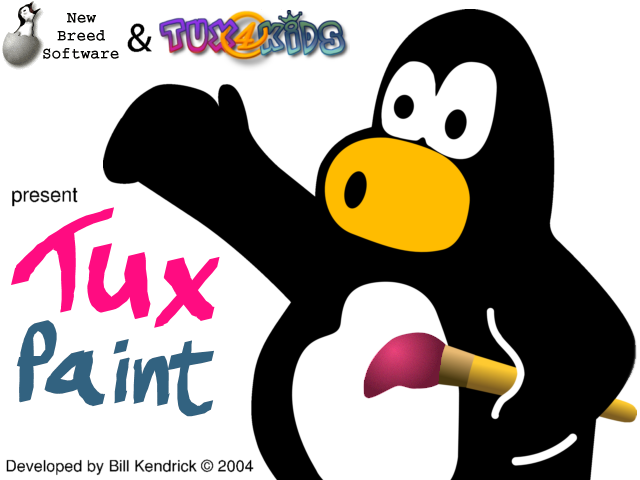
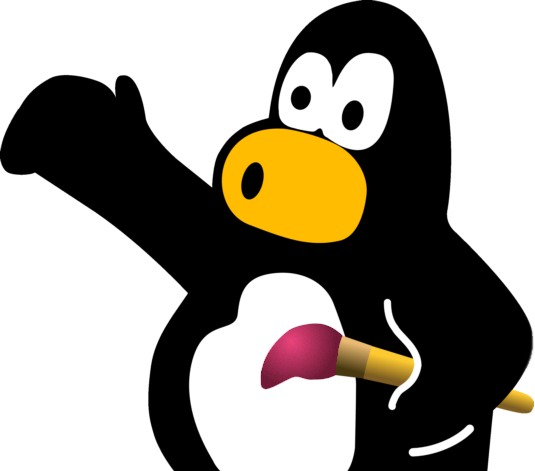
Splash screen scales to different window sizes.

diff --git a/src/tuxpaint.c b/src/tuxpaint.c
@@ -22,12 +22,12 @@
   Foundation, Inc., 59 Temple Place, Suite 330, Boston, MA  02111-1307  USA
   (See COPYING.txt)
   
-  June 14, 2002 - October 5, 2005
+  June 14, 2002 - October 6, 2005
 */
 
 
 #define VER_VERSION     "0.9.15"
-#define VER_DATE        "2005-10-05"
+#define VER_DATE        "2005-10-06"
 
 
 /* Color depth for Tux Paint to run in, and store canvases in: */
@@ -1490,7 +1490,8 @@ static SDL_Surface * undo_bufs[NUM_UNDO_BUFS];
 static int undo_starters[NUM_UNDO_BUFS];
 static int cur_undo, oldest_undo, newest_undo;
 
-static SDL_Surface * img_title, * img_progress;
+static SDL_Surface * img_title, * img_title_credits, * img_title_tuxpaint;
+static SDL_Surface * img_progress;
 static SDL_Surface * img_btn_up, * img_btn_down, * img_btn_off;
 static SDL_Surface * img_dead40x40;
 static SDL_Surface * img_black, * img_grey;
@@ -2582,9 +2583,12 @@ int main(int argc, char * argv[])
   src.w = img_title->w;
   src.x = 0;
   src.y = img_title->h - img_progress->h;
-  dest.x = (WINDOW_WIDTH - img_title->w) / 2;
+  dest.x = ((WINDOW_WIDTH - img_title->w - (img_title_tuxpaint->w / 2)) / 2) + (img_title_tuxpaint->w / 2);
   SDL_BlitSurface(img_title, &src, screen, &dest);
+
   SDL_FreeSurface(img_title);
+  SDL_FreeSurface(img_title_credits);
+  SDL_FreeSurface(img_title_tuxpaint);
 
   dest.x = 0;
   dest.w = WINDOW_WIDTH;  // SDL mangles this! So, do repairs.
@@ -2592,7 +2596,7 @@ int main(int argc, char * argv[])
 
   do_setcursor(cursor_arrow);
   playsound(0, SND_HARP, 1);
-  do_wait(50);  // about 5 seconds
+  do_wait(500);  // about 5 seconds
 
 
   /* Set defaults! */
@@ -8221,14 +8225,26 @@ static void setup(int argc, char * argv[])
   ////////// quickly: title image, version, progress bar, and watch cursor
 
   img_title = loadimage(DATA_PREFIX "images/title.png");
+  img_title_tuxpaint = loadimage(DATA_PREFIX "images/title-tuxpaint.png");
+  img_title_credits = loadimage(DATA_PREFIX "images/title-credits.png");
   img_progress = loadimage(DATA_PREFIX "images/ui/progress.png");
 
   SDL_FillRect(screen, NULL, SDL_MapRGB(screen->format, 255, 255, 255));
 
-  dest.x = (WINDOW_WIDTH - img_title->w) / 2;
+  dest.x = ((WINDOW_WIDTH - img_title->w - (img_title_tuxpaint->w / 2)) / 2) + (img_title_tuxpaint->w / 2);
   dest.y = (WINDOW_HEIGHT - img_title->h);
 
   SDL_BlitSurface(img_title, NULL, screen, &dest);
+
+  dest.x = (WINDOW_WIDTH - img_title->w - (img_title_tuxpaint->w / 2)) / 2;
+  dest.y = (WINDOW_HEIGHT - img_title->h) + img_title_tuxpaint->h * 0.8;
+
+  SDL_BlitSurface(img_title_tuxpaint, NULL, screen, &dest);
+
+  dest.x = 0;
+  dest.y = 0;
+
+  SDL_BlitSurface(img_title_credits, NULL, screen, &dest);
 
   prog_bar_ctr = 0;
   show_progress_bar();
@@ -8252,10 +8268,20 @@ static void setup(int argc, char * argv[])
 
   snprintf(tmp_str, sizeof(tmp_str), "%s – %s", VER_VERSION, VER_DATE);
   tmp_surf = render_text(medium_font, tmp_str, black);
-  dest.x = 20 + (WINDOW_WIDTH - img_title->w) / 2;
-  dest.y = WINDOW_HEIGHT - 60;
+  dest.x = 0;
+  dest.y = WINDOW_HEIGHT - img_progress->h - tmp_surf->h;
   SDL_BlitSurface(tmp_surf, NULL, screen, &dest);
   SDL_FreeSurface(tmp_surf);
+  printf("%s\n", tmp_str);
+  
+  snprintf(tmp_str, sizeof(tmp_str),
+	   "©2002-2005 Bill Kendrick, et al");
+  tmp_surf = render_text(medium_font, tmp_str, black);
+  dest.x = 0;
+  dest.y = WINDOW_HEIGHT - img_progress->h - (tmp_surf->h * 2);
+  SDL_BlitSurface(tmp_surf, NULL, screen, &dest);
+  SDL_FreeSurface(tmp_surf);
+
   SDL_Flip(screen);
 
 
